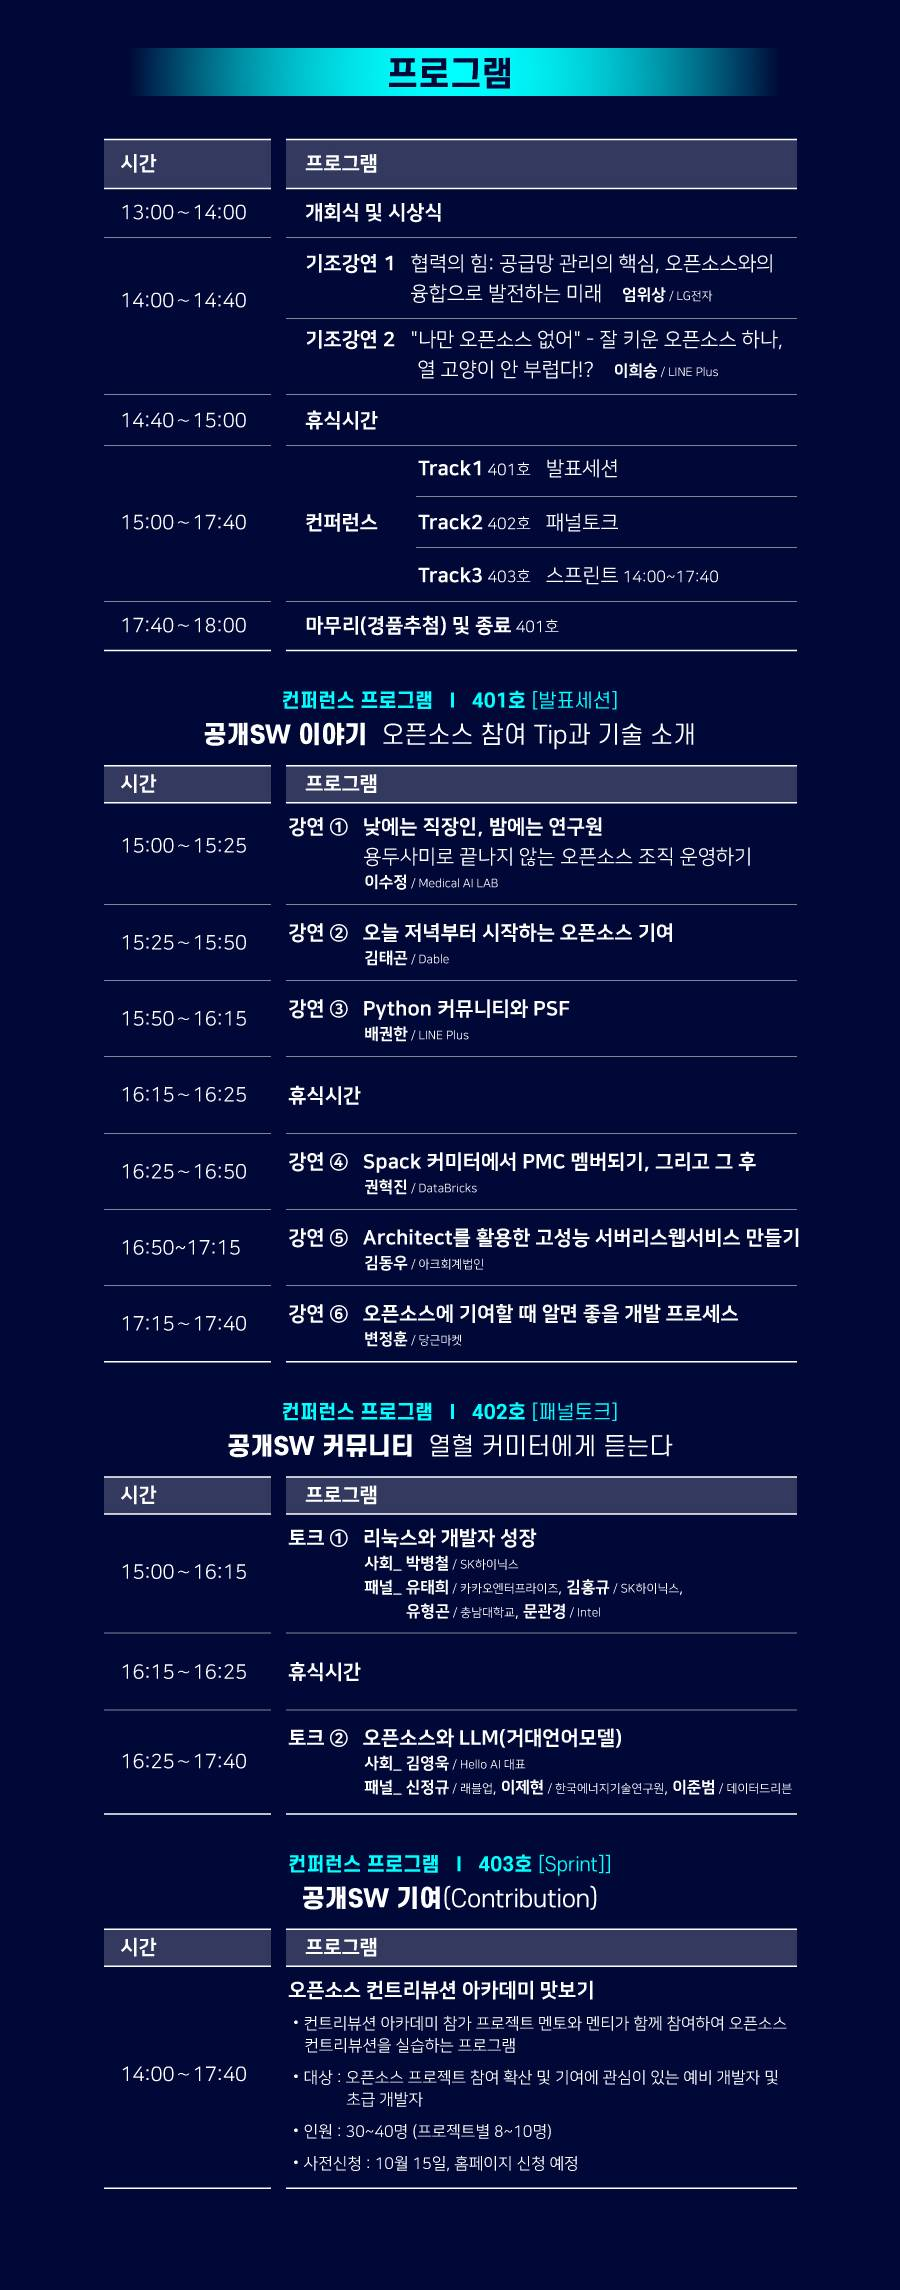
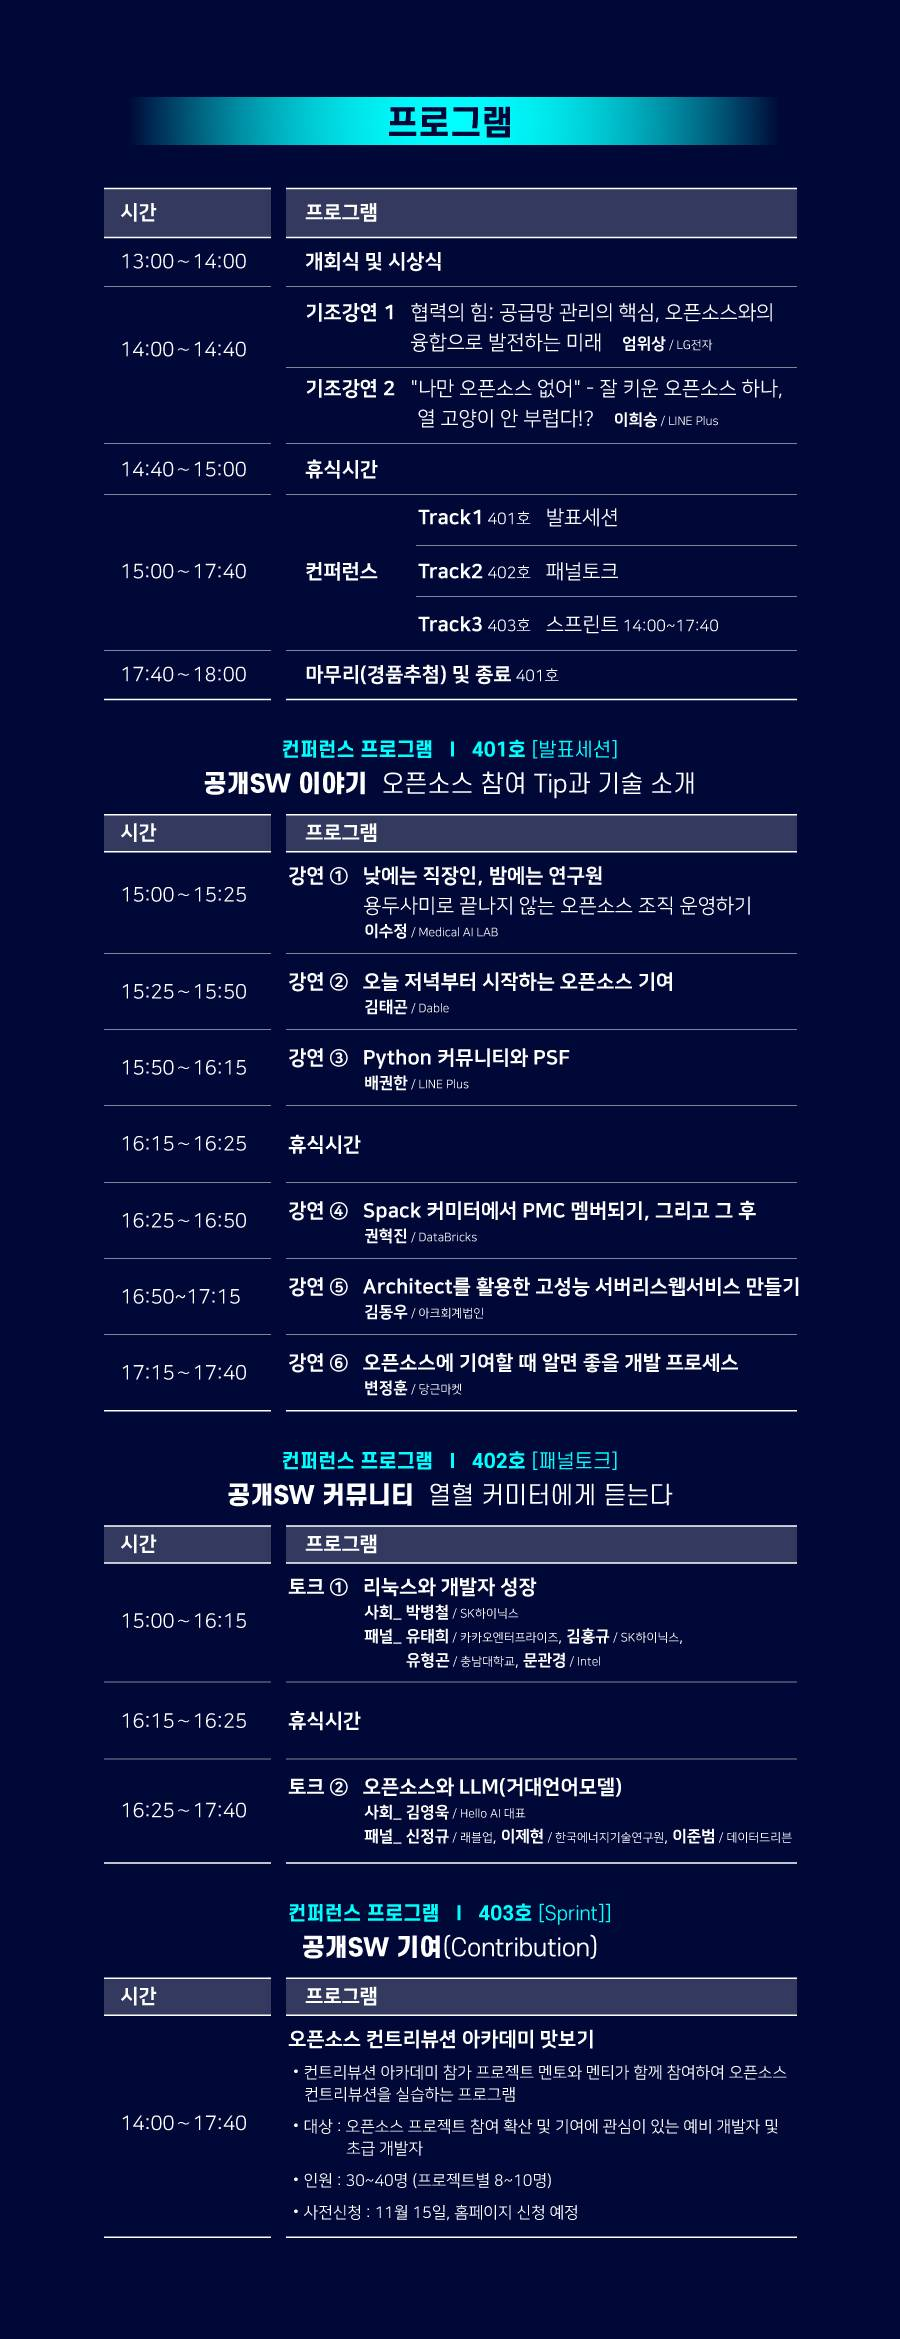
이미지(프로그램-스프린트 사전신청일) 변경

diff --git a/src/pages/Program/ProgramArea/ProgramArea.js b/src/pages/Program/ProgramArea/ProgramArea.js
@@ -11,8 +11,8 @@ const ProgramArea = () => {
                         <p className="d-sm-none">※클릭하시면 확대해서 보실 수 있습니다.</p>
                         <Image
                             className="imgBox"
-                            src='assets/img/edm/edm-program.jpg' // 이미지 URL을 넣으세요
-                            preview={{ src: "assets/img/edm/edm-program.jpg" }} // 클릭할 때만 확대되도록 설정
+                            src='assets/img/openSW/openSW-program-noTitle.jpg' // 이미지 URL을 넣으세요
+                            preview={{ src: "assets/img/openSW/openSW-program-noTitle.jpg" }} // 클릭할 때만 확대되도록 설정
                         />
 
                         {/*<div className="d overall"><ProgramOverall/></div>*/}

diff --git a/src/pages/Event/EventArea/EventArea.js b/src/pages/Event/EventArea/EventArea.js
@@ -12,8 +12,8 @@ const EventArea = () => {
                         <Image
                             className="imgBox"
                             movable={true}
-                            src='assets/img/edm/edm-event.jpg' // 이미지 URL을 넣으세요
-                            preview={{ src: "assets/img/edm/edm-event.jpg" }} // 클릭할 때만 확대되도록 설정
+                            src='assets/img/openSW/openSW-event.jpg' // 이미지 URL을 넣으세요
+                            preview={{ src: "assets/img/openSW/openSW-event.jpg" }} // 클릭할 때만 확대되도록 설정
                         />
                     </div>
                 </div>
